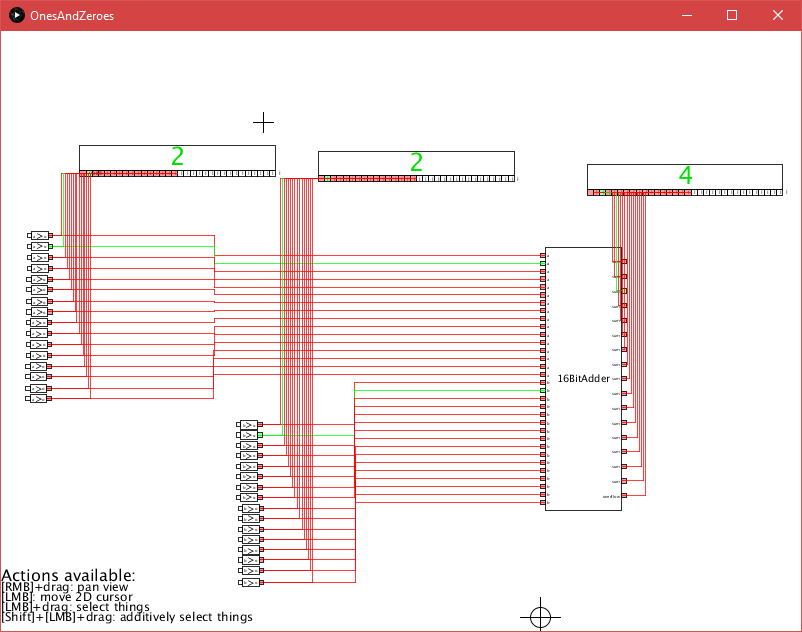
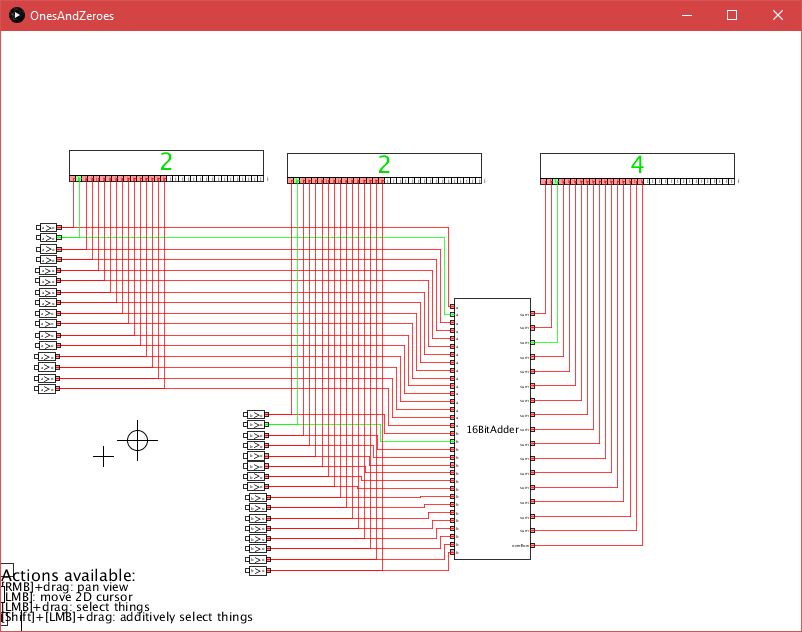
Added button gate
and improved documentation

diff --git a/README.md b/README.md
@@ -16,13 +16,17 @@ Sidenote: OnesAndZeroes only uses `true` and `false` to represent gate states, o
 There are probably more controls out there, the bottom left of the screen will show you what actions you can do at any given moment
 
 ## How it works
-I'd assume that your goal is to build some sort of computer using primitive logic gates only.
+I'd assume that your goal is to build some sort of computer using primitive logic gates and a pulser only.
 
 ![Example Image](./Images/Screenshot1.png)
 
 The primitive gates are And, Or, Not, Xor, and Nand. The output gates exist to use the signals to produce some sort of output, like a coloured pixel, or a number. They also exist for debugging purposes. There is also a clock gate that pulses at a speed defined by it's input, and relay gates that simply feed the signal forward.
 
 ![Main Gates](./Images/MainGates.png)
+
+The button gate also exists. It's output is `true` whenever it is clicked. The text displayed is the same as the name of the output pin. I plan to map keyboard keys to buttons at some point.
+
+![Button Gate](./Images/Button.png)
 
 ### Selecting multiple gates
 Dragging the mouse over the background will enable you to do a rectangular selection of gates. Selected gates can be dragged or deleted all at once. Holding down `Shift` while selecting things will ensure that the previous selection doesn't get cleared, allowing for additive selection. 
@@ -58,5 +62,7 @@ Possibly the most usefull feature ever. Click on the input/output name, type in 
 Thanks! There are still heaps of bugs to remove, but hopefully you won't encounter any of them while you're building your computer. (Don't worry too much about feedback loops though, the system is quite resilient to those). Good luck!
 
 #### New features in the works:
-- Detecting cycles in savefiles (i.e when a.txt needs b, b.txt needs c, and then c.txt needs a.txt)
-- Embedding savefiles properly instead of recursively
+- Detecting cycles in non-embedded savefiles
+- Embedding savefiles properly with names pointing to embedded gates rather than just recursively saving the group wherever it appears
+- keyboard activated buttons
+- better wire wrangling and selecting
